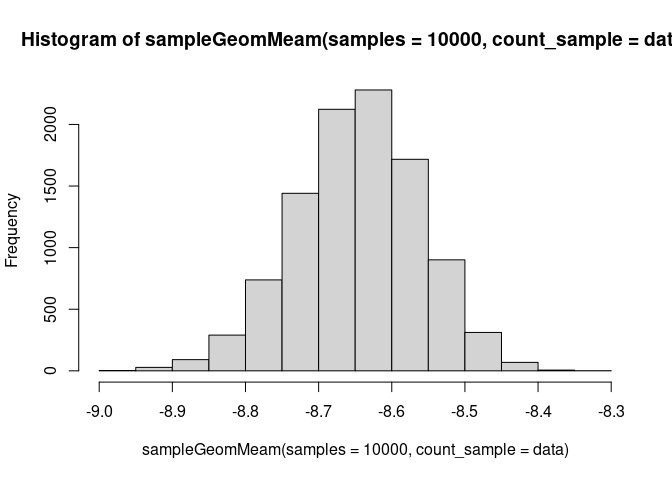
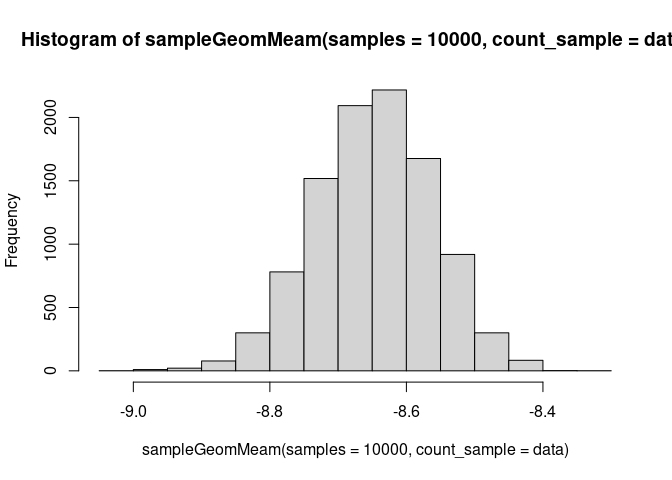
updated readme

diff --git a/README.md b/README.md
@@ -44,3 +44,50 @@ sampleCLR(1000, data) %>%
     ## `stat_bin()` using `bins = 30`. Pick better value with `binwidth`.
 
 ![](README_files/figure-gfm/distributions-2.png)<!-- -->
+
+``` r
+#Mean can be estimated:
+#observed
+mean(sampleGeomMeam(samples = 10000, count_sample = data, log_transformed = T))
+```
+
+    ## [1] -8.644785
+
+``` r
+#estimated
+mean(getBetaMeans(data, log_transformed = T))
+```
+
+    ## [1] -8.645706
+
+``` r
+#Standard deviation less so 
+#observed
+sd(sampleGeomMeam(samples = 10000, count_sample = data, log_transformed = T))
+```
+
+    ## [1] 0.08548483
+
+``` r
+#estimated
+mean(sqrt(getBetaVars(data, log_transformed = T)))
+```
+
+    ## [1] 0.8336614
+
+``` r
+#comparing the distributions
+#observed
+hist(sampleGeomMeam(samples = 10000, count_sample = data, log_transformed = T), xlim =c(-9.2, -8))
+```
+
+![](README_files/figure-gfm/estimation%20of%20the%20geometric%20mean-1.png)<!-- -->
+
+``` r
+#estimated
+hist(rnorm(n = 10000, 
+           mean = mean(getBetaMeans(data, log_transformed = T)), 
+           sd = mean(sqrt(getBetaVars(data, log_transformed = T)))), xlim =c(-12,  -5.5))
+```
+
+![](README_files/figure-gfm/estimation%20of%20the%20geometric%20mean-2.png)<!-- -->
